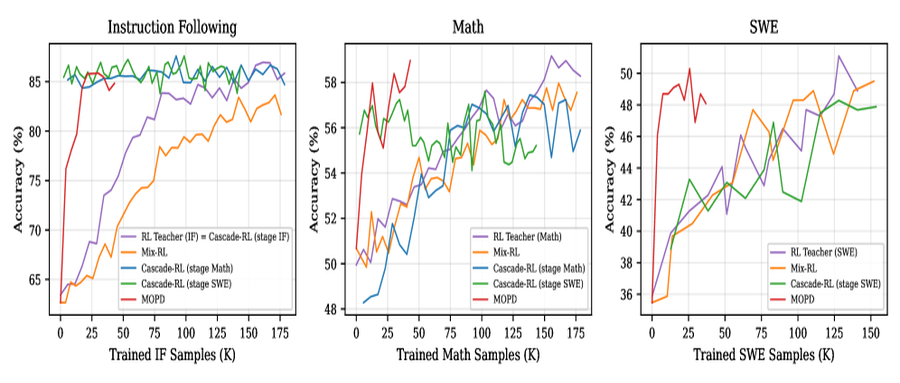
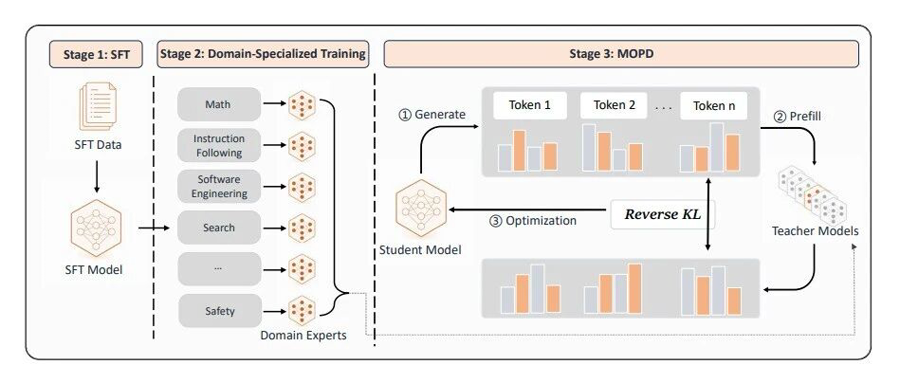
auto: ASKS.md, mopd, vllm-semantic-router (+5, ~4)

diff --git a/mopd/draft_from_server.html b/mopd/draft_from_server.html
@@ -1,0 +1,1 @@
+<section style="font-family: -apple-system-font,BlinkMacSystemFont, Helvetica Neue, PingFang SC, Hiragino Sans GB , Microsoft YaHei UI , Microsoft YaHei ,Arial,sans-serif;font-size: 16px;line-height: 1.75;text-align: left;"><p><strong style="font-weight: bold;font-size: 16px;color: #1a6ba0;"><span leaf="">要点速览</span></strong></p><p><span leaf="">&nbsp;-&nbsp;</span><strong style="color: #0F4C81;font-weight: bold;font-size: inherit;"><span leaf="">MOPD是什么</span></strong><span leaf="">：Multi-Teacher On-Policy Distillation，一种新的大模型后训练范式，先对各领域独立RL得到领域教师，再在学生自己的生成数据上做蒸馏，实现多领域能力集成。</span><span leaf=""><br  /></span><span leaf=""><br  /></span><span leaf="">&nbsp;-&nbsp;</span><strong style="color: #0F4C81;font-weight: bold;font-size: inherit;"><span leaf="">效果如何</span></strong><span leaf="">：在Qwen3-30B-A3B上归一化得分0.937，领先最佳基线5.5个点；三个领域能力覆盖91-95%，在所有对比方法中最均匀。</span><span leaf=""><br  /></span><span leaf=""><br  /></span><span leaf="">&nbsp;-&nbsp;</span><strong style="color: #0F4C81;font-weight: bold;font-size: inherit;"><span leaf="">结构优势</span></strong><span leaf="">：领域教师完全并行开发，不交叉影响；同源教师（same-origin）是稳定训练的关键：换更强但分布不同的教师反而会崩。</span><span leaf=""><br  /></span><span leaf=""><br  /></span><span leaf="">&nbsp;-&nbsp;</span><strong style="color: #0F4C81;font-weight: bold;font-size: inherit;"><span leaf="">工业验证</span></strong><span leaf="">：已部署在小米MiMo-V2-Flash（309B参数）的后训练流水线中，在大部分基准上媲美或超越领域专用教师。&nbsp;</span></p><hr style="border-style: solid;border-width: 2px 0 0;border-color: rgba(0, 0, 0, 0.1);-webkit-transform-origin: 0 0;-webkit-transform: scale(1, 0.5);transform-origin: 0 0;transform: scale(1, 0.5);height: 0.4em;margin: 1.5em 0;"  /><p style="margin: 1.5em 8px;letter-spacing: 0.1em;color: #3f3f3f;"><span leaf="">RL在LLM后训练中的成功已是共识：数学用可验证答案的PPO/GRPO，代码用沙箱Agent RL，指令遵循用评分标准。每一条流水线都可靠地提升了模型在其目标领域的能力。但问题很简单也极难：</span><strong style="color: #0F4C81;font-weight: bold;font-size: inherit;"><span leaf="">我们需要的是一个数学强人、一个编码高手、一个听话的助手：全部集于一身。</span></strong></p><p style="margin: 1.5em 8px;letter-spacing: 0.1em;color: #3f3f3f;"><span leaf="">把多个领域的能力放进一个模型而不互相干扰，这件事在公开文献中一直没有好的答案。Mix-RL的跷跷板效应、Cascade RL的能力衰退、Off-Policy Finetune的暴露偏差、Param-Merge的权重空间不稳定性：每一种都牺牲了某个维度。</span></p><p style="margin: 1.5em 8px;letter-spacing: 0.1em;color: #3f3f3f;"><span leaf="">小米和北大联合提出的MOPD（Multi-Teacher On-Policy Distillation）给出了一个新的解法：</span><strong style="color: #0F4C81;font-weight: bold;font-size: inherit;"><span leaf="">不在权重空间里搅合，也不在静态数据集上模仿，而是在策略空间中让学生直接向多位领域教师学习。</span></strong></p><p style="margin: 1.5em 8px;letter-spacing: 0.1em;color: #3f3f3f;"><strong style="color: #0F4C81;font-weight: bold;font-size: inherit;"><span leaf="">MOPD的三个阶段</span></strong></p><p style="margin: 1.5em 8px;letter-spacing: 0.1em;color: #3f3f3f;"><span leaf="">MOPD将后训练拆成三段：</span></p><ul style="list-style: circle;padding-left: 1em;margin-left: 0;color: #3f3f3f;" class="list-paddingleft-1"><li style="display: block;margin: 0.2em 8px;color: #3f3f3f;"><section><span leaf="">•&nbsp;</span><strong style="color: #0F4C81;font-weight: bold;font-size: inherit;"><span leaf="">Stage 1：通用SFT</span></strong><span leaf="">。在覆盖所有目标领域的语料上微调基础模型，得到一个共享起点。</span></section></li><li style="display: block;margin: 0.2em 8px;color: #3f3f3f;"><section><span leaf="">•&nbsp;</span><strong style="color: #0F4C81;font-weight: bold;font-size: inherit;"><span leaf="">Stage 2：领域特化RL</span></strong><span leaf="">。从共享起点出发，对每个领域独立训练一个RL专家。数学团队用可验证答案的RL，软件工程团队用沙箱Agent RL，互不干扰、完全并行。</span></section></li><li style="display: block;margin: 0.2em 8px;color: #3f3f3f;"><section><span leaf="">•&nbsp;</span><strong style="color: #0F4C81;font-weight: bold;font-size: inherit;"><span leaf="">Stage 3：MOPD蒸馏</span></strong><span leaf="">。学生从共享起点初始化，各领域专家冻结为教师。在同一批数据上，学生先生成回复（rollout），再按领域分发给对应教师：教师在学生生成的回复上计算每token概率，然后学生通过最小化反向KL散度向教师对齐。</span></section></li></ul><section style="text-align: center;" nodeleaf=""><img class="rich_pages wxw-img" data-aistatus="1" data-imgfileid="100002855" data-s="300,640" data-src="https://mmbiz.qpic.cn/sz_mmbiz_png/MJRkdzPjdxRWAQqmicU4a7icuKxpGcY1dm3erPGOicqZqowZbN9CzurNliaiaHLaADPULztFaC2z3lemiaKUGMICjFjA4TJ4jrvcA65Tb2uKWxoGg/640?wx_fmt=png&amp;from=appmsg" data-type="png" type="block"></section><p style="margin: 1.5em 8px;letter-spacing: 0.1em;color: #3f3f3f;"><strong style="color: #0F4C81;font-weight: bold;font-size: inherit;"><span leaf="">关键设计在Stage 3</span></strong><span leaf="">：教师不是在"自己的"数据上打分，而是在</span><strong style="color: #0F4C81;font-weight: bold;font-size: inherit;"><span leaf="">学生自己生成</span></strong><span leaf="">的文本上打分。这从根本上规避了异策略（off-policy）训练的暴露偏差：学生看到的训练分布和推理分布是一致的。</span></p><p style="margin: 1.5em 8px;letter-spacing: 0.1em;color: #3f3f3f;"><strong style="color: #0F4C81;font-weight: bold;font-size: inherit;"><span leaf="">结构优势不止一个</span></strong></p><p style="margin: 1.5em 8px;letter-spacing: 0.1em;color: #3f3f3f;"><span leaf="">MOPD带来的收益是多层的：</span></p><ul style="list-style: circle;padding-left: 1em;margin-left: 0;color: #3f3f3f;" class="list-paddingleft-1"><li style="display: block;margin: 0.2em 8px;color: #3f3f3f;"><section><span leaf="">•&nbsp;</span><strong style="color: #0F4C81;font-weight: bold;font-size: inherit;"><span leaf="">密集信号</span></strong><span leaf="">：教师在每个token上提供完整的概率分布，而不是RL中一个稀疏的奖励分数</span></section></li><li style="display: block;margin: 0.2em 8px;color: #3f3f3f;"><section><span leaf="">•&nbsp;</span><strong style="color: #0F4C81;font-weight: bold;font-size: inherit;"><span leaf="">彻底解耦</span></strong><span leaf="">：各领域教师可独立开发、独立调参，一个教师的失败不影响其他教师</span></section></li><li style="display: block;margin: 0.2em 8px;color: #3f3f3f;"><section><span leaf="">•&nbsp;</span><strong style="color: #0F4C81;font-weight: bold;font-size: inherit;"><span leaf="">并行加速</span></strong><span leaf="">：教师预填充与学生采样异步重叠，墙钟时间几乎不增加</span></section></li><li style="display: block;margin: 0.2em 8px;color: #3f3f3f;"><section><span leaf="">•&nbsp;</span><strong style="color: #0F4C81;font-weight: bold;font-size: inherit;"><span leaf="">策略空间融合</span></strong><span leaf="">：按提示路由到对应教师，而非在参数空间做权重平均：避免了Param-Merge的不稳定</span></section></li></ul><p style="margin: 1.5em 8px;letter-spacing: 0.1em;color: #3f3f3f;"><strong style="color: #0F4C81;font-weight: bold;font-size: inherit;"><span leaf="">实验结果：五个基线中唯一均匀覆盖</span></strong></p><p style="margin: 1.5em 8px;letter-spacing: 0.1em;color: #3f3f3f;"><span leaf="">在Qwen3-30B-A3B上，MOPD与Mix-RL、Cascade RL、Off-Policy Finetune和Param-Merge（两种变体）对比，覆盖数学、指令遵循和软件工程三个领域。归一化得分消除了各领域的绝对分差，0等于SFT学生，1等于领域特化教师。</span></p><section style="text-align: center;" nodeleaf=""><img class="rich_pages wxw-img" data-aistatus="1" data-imgfileid="100002856" data-s="300,640" data-src="https://mmbiz.qpic.cn/mmbiz_png/MJRkdzPjdxR1PM7OmyTnLOIIiaQoXfhzUMcaBMickETsdIk2ZT7tbc4YibfzR2lSHHnWWdhw7XkckibsOQh31YILUicZFMps4RpI6wMORssl4ENI/640?wx_fmt=png&amp;from=appmsg" data-type="png" type="block"></section><p style="margin: 1.5em 8px;letter-spacing: 0.1em;color: #3f3f3f;"><span leaf="">MOPD以0.937的归一化得分领先最佳基线Mix-RL（0.882）5.5个点。更重要的是，它的三个领域归一化得分落在 [0.91, 0.95]，范围仅0.044，是所有方法中最均匀的。其他方法各有软肋：Cascade RL的数学闭眼率仅57%（范围0.41），Off-Policy Finetune的SWE闭眼率仅65%（范围0.36），Mix-RL虽较均衡但仍差5.5分。Param-Merge的线性平均更是只有0.328。</span></p><p style="margin: 1.5em 8px;letter-spacing: 0.1em;color: #3f3f3f;"><span leaf="">样本效率同样是亮点：MOPD在IF领域约25K样本即触达教师级水平，而Mix-RL每个领域需要150-180K样本。密集的token级监督信号带来了更快的收敛。</span></p><p style="margin: 1.5em 8px;letter-spacing: 0.1em;color: #3f3f3f;"><span leaf=""><img class="rich_pages wxw-img" data-aistatus="1" data-ratio="0.286144578313253" data-src="https://mmbiz.qpic.cn/sz_mmbiz_png/MJRkdzPjdxQzqXtTkKdD6D6CibaAqzQ8Uricrutskic7grhSViaEopKrIcCpR5sB5MsAzNKPxNxRD7EuYgfzV9hsQ0TqWeBte2ibpmbDHOkJhqC0/640?from=appmsg" data-w="996" style="display: block;width: 100%;margin: 1.5em auto;height: auto !important;"></span><span style="font-size:12px;color:rgb(153,153,153);"><span leaf="">MOPD的训练动力学曲线（左：指令遵循，中：数学，右：软件工程）。紫色线为领域专用RL教师参考，MOPD在各领域快速逼近教师水平。</span></span></p><p style="margin: 1.5em 8px;letter-spacing: 0.1em;color: #3f3f3f;"><strong style="color: #0F4C81;font-weight: bold;font-size: inherit;"><span leaf="">工业验证：MiMo-V2-Flash 309B模型</span></strong></p><p style="margin: 1.5em 8px;letter-spacing: 0.1em;color: #3f3f3f;"><span leaf="">MOPD不是实验室玩具。它已被部署在小米MiMo-V2-Flash（309B参数）的后训练中，覆盖数学、代码、指令遵循、软件工程和工具使用五个领域。在7个基准上，MOPD在5个上超越教师、2个上略低于教师（IFBench -2.2，SWE-Bench Verified -0.8），整体匹配甚至超越领域专用教师的表现。</span></p><p style="margin: 1.5em 8px;letter-spacing: 0.1em;color: #3f3f3f;"><strong style="color: #0F4C81;font-weight: bold;font-size: inherit;"><span leaf="">为什么"同源教师"是关键</span></strong></p><p style="margin: 1.5em 8px;letter-spacing: 0.1em;color: #3f3f3f;"><span leaf="">MOPD的一个反直觉发现：</span><strong style="color: #0F4C81;font-weight: bold;font-size: inherit;"><span leaf="">用更强的教师不一定更好。</span></strong><span leaf="">&nbsp;在数学领域，实验将原生的Qwen3-30B-A3B数学教师替换为Qwen3-235B-A22B（一个数学能力更强的超大模型），结果MOPD学生的数学性能反而下降。</span></p><section style="text-align: center;" nodeleaf=""><img class="rich_pages wxw-img" data-aistatus="1" data-imgfileid="100002858" data-s="300,640" data-src="https://mmbiz.qpic.cn/sz_mmbiz_png/MJRkdzPjdxSVz57DzLdyv6fSxGbjakuGlyudMOH9MiaWn2Ju7bTReNCLBDc8JtoNBMNb7hjODWUYIzHiaG7ibz8x32lIXMmCU8OpJjMtHk8lsI/640?wx_fmt=png&amp;from=appmsg" data-type="png" type="block"></section><p style="margin: 1.5em 8px;letter-spacing: 0.1em;color: #3f3f3f;"><span leaf="">原因在分布差距。同源教师与学生只差3个领域的RL训练，初始每token KL散度仅&nbsp;</span><span style="text-decoration: underline wavy;text-decoration-color: #0F4C81;text-decoration-thickness: 2px;"><span leaf="">0.04；而235B大模型教师的分布差距高达&nbsp;</span></span><span leaf="">0.19（5倍）。学生在每个token上都收到大量"你这里不对"的惩罚性梯度信号，策略空间逐渐坍缩到单一模式，top-k蒸馏形式甚至在第18步直接发散。</span></p><section style="text-align: center;" nodeleaf=""><img class="rich_pages wxw-img" data-aistatus="1" data-imgfileid="100002857" data-s="300,640" data-src="https://mmbiz.qpic.cn/mmbiz_png/MJRkdzPjdxRr9fO7wKeTm7V62CDfCic7vt4pd3YVK4XL8qBDTnK9M2rcA5r7M2RkBO2vR9fBmH7HxfFCmtXx6ibVlMicn8m7DSSLIjlHZ6qVDU/640?wx_fmt=png&amp;from=appmsg" data-type="png" type="block"></section><p style="margin: 1.5em 8px;letter-spacing: 0.1em;color: #3f3f3f;"><span leaf="">这个结果传达了一个隐含但重要的设计原则：</span><strong style="color: #0F4C81;font-weight: bold;font-size: inherit;"><span leaf="">蒸馏的优势不在于"利用更强的外部知识"，而在于"在相近的分布上做精细对齐"。</span></strong><span leaf="">&nbsp;同源教师不是一个巧合，而是MOPD稳定性的结构性前提。</span></p><p style="margin: 1.5em 8px;letter-spacing: 0.1em;color: #3f3f3f;"><strong style="color: #0F4C81;font-weight: bold;font-size: inherit;"><span leaf="">多轮迭代：持续进化的可能</span></strong></p><p style="margin: 1.5em 8px;letter-spacing: 0.1em;color: #3f3f3f;"><span leaf="">一轮MOPD后仍有改进空间。将MOPD学生作为新的起点，重新训练领域教师再做第二轮蒸馏，归一化得分从0.937进一步上升到0.986（+0.049）。这打开了持续进化的可能性：每轮蒸馏吸收当前教师的能力，然后新教师从更强的学生出发，在更高起点上再做特化。</span></p><p><strong style="font-weight: bold;font-size: 15px;color: #8b6f4c;"><span leaf="">结语</span></strong></p><p><span leaf="">&nbsp;MOPD的价值不在于它比Mix-RL多了5.5个点：数字在下一次刷榜就可能被超过。它的真正贡献是拆掉了多领域后训练中的耦合。在工程层面，这意味着数学团队和代码团队可以各自迭代、各自重启而互不等待；在系统层面，这意味着从"大家一起塞一个训练脚本"变成了"分开训练、蒸馏集成"的生产线逻辑。</span><span leaf=""><br  /></span><span leaf=""><br  /></span><span leaf="">&nbsp;这思路对大规模模型训练的工业化有直接启示：能力生产（训练）和能力组装（蒸馏）的解耦，可能像硬件设计中IP模块化和片上集成的分离一样，是规模化后训练的必经之路。&nbsp;</span></p><hr style="border-style: solid;border-width: 2px 0 0;border-color: rgba(0, 0, 0, 0.1);-webkit-transform-origin: 0 0;-webkit-transform: scale(1, 0.5);transform-origin: 0 0;transform: scale(1, 0.5);height: 0.4em;margin: 1.5em 0;"  /><p style="margin: 1.5em 8px;letter-spacing: 0.1em;color: #3f3f3f;"><span style="font-size:12px;color:#888888;font-family:&#39;Courier New&#39;,monospace;"><span leaf="">参考：</span></span></p><p style="margin: 1.5em 8px;letter-spacing: 0.1em;color: #3f3f3f;"><span leaf="">https://arxiv.org/html/2606.30406v1</span></p><span leaf="">&nbsp; &nbsp; &nbsp; &nbsp; &nbsp; &nbsp; &nbsp; &nbsp; &nbsp; &nbsp; &nbsp; &nbsp;&nbsp;</span></section><p style="display: none;"><mp-style-type data-value="10000"></mp-style-type></p>

diff --git a/vllm-semantic-router/progress.md b/vllm-semantic-router/progress.md
@@ -10,5 +10,5 @@
 | Step 4: 文章撰写 | completed |
 | Step 4f: Humanizer 润色 | completed |
 | Step 4g: 格式修复 | completed |
-| Step 5: 预发布检查清单 | in_progress |
-| Step 6: 推送草稿 | pending |
+| Step 5: 预发布检查清单 | completed |
+| Step 6: 推送草稿 | completed |
